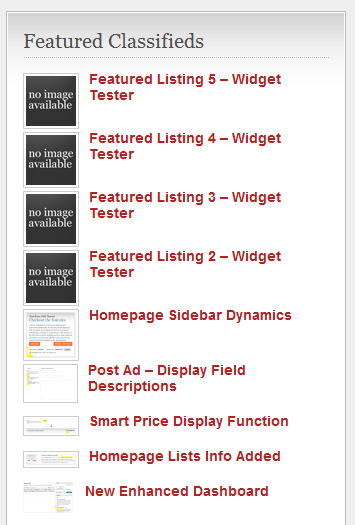
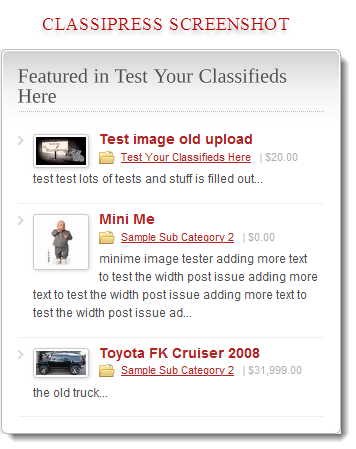
updated plugin for tag out, fixed plugin for users who upgraded to the newest version of ClassiPress, currently version 3.0.5.3
git-svn-id: https://plugins.svn.wordpress.org/sm-sticky-featured-widget/trunk@328926 b8457f37-d9ea-0310-8a92-e5e31aec5664

diff --git a/sticky-featured-widget.php b/sticky-featured-widget.php
@@ -2,9 +2,9 @@
 /*
 Plugin Name: SM Sticky Featured Widget
 Plugin URI: http://www.smwphosting.com/extend/plugins/sm-sticky-widget
-Description: A tiny but high in demand widget to post sticky or "featured" posts into any widget area.
+Description: A tiny but high in demand widget to post sticky or "featured" posts into any widget area complient with ClassiPress.
 Author: Seth Carstens
-Version: 1.0.3
+Version: 1.1.0
 Author URI: http://www.smwphosting.com/
 */
 
@@ -21,8 +21,23 @@ class WP_Widget_smSticky extends WP_Widget {
 
 	// This code displays the widget on the screen.
 	function widget($args, $instance) {
+		wp_reset_query();
 		extract($args);
-		echo $before_widget;
+		
+		//detect and set configuration for classipress or standard wordpress theme
+		if(post_type_exists('ad_listing')) { $cp = true; $postType = 'ad_listing'; $catType = 'ad_cat'; }
+		else { $cp = false; $postType = 'post'; $catType = 'category'; }
+		
+		if(get_query_var('taxonomy')) {
+			$term = get_term_by('slug', get_query_var('term'), get_query_var('taxonomy'));
+		}
+		elseif(is_category()) {
+			$term = get_term_by('id', get_cat_ID(single_cat_title("", false)), 'category');
+		}
+		elseif(is_single()) { //single page
+			$terms = wp_get_post_terms(get_the_ID(), $catType); //print_r($terms); exit;
+			$term = $terms[0];
+		}
 
 		/* User-selected settings. */
 		//title
@@ -34,91 +49,82 @@ class WP_Widget_smSticky extends WP_Widget {
 		//thumbnails
 		$showthumbs = isset( $instance['showthumbs'] ) ? $instance['showthumbs'] : false;
 		$catTitles = isset( $instance['catTitles'] ) ? $instance['catTitles'] : false;
-
-
-		//Building The Query
-		//if the blog category is set, get it and set it to a negative number to exclude it
-		if(get_option('cp_blog_cat')) $blogcatexclude = (int)CP_BLOG_CAT_ID * (-1);
-		else $blogcatexclude = '';
 		
-		//getting the category depending on the type of page we are on IS_SINGLE=POST/PAGE
-		if(is_single()) {
-			$categories = get_the_category($post->ID);
-			$get_cat_name = $categories[0]->cat_name; 
-			$get_cat_id = $categories[0]->cat_ID;
-		}
-		//else its a ARCHIVE/INDEX
-		else
-		{
-			$get_cat_name = single_cat_title("", false);
-			$get_cat_id = get_cat_ID($get_cat_name);
-			
-		}
-		
-		//if not on the home page, we must be in a category, display that title instead.
-		if( ($get_cat_id > 0) && $catTitles) {
-			echo $before_title . __('Featured in ') . $get_cat_name . $after_title;	
-			$argsqry = array('cat' => $get_cat_id);
-		}
-		//means this is the home page : use defined title and exclude blog category ID's
-		else {
-			if(isset($instance['title'])) echo $before_title . $instance['title'] . $after_title;
-			else  echo $before_title . __('Sticky Posts', 'cp') . $after_title;
-			
-			//CLASSIPRESS ONLY grab a string of all the blog categories.
-			$blog_cats_string = (string)CP_BLOG_CAT_ID;
-			$blog_cat_args = array(
-				'type'                     => 'post',
-				'child_of'                 => CP_BLOG_CAT_ID,
-				'pad_counts'               => false );
-			$blog_categories = get_categories($blog_cat_args);
-			foreach ($blog_categories as $cat) {
-				$blog_cats_string .= "," . $cat->cat_ID;
-			}
-
-			//grab all the categories and exclude the blog categories
-			$cp_cat_args = array(
-				'type'                     => 'post',
-				'child_of'                 => 0,
-				'orderby'                  => 'name',
-				'order'                    => 'ASC',
-				'hide_empty'               => 1,
-				'hierarchical'             => 1,
-				'exclude'                  => $blog_cats_string,
-				'pad_counts'               => false );
-			
-			$cp_categories = get_categories($cp_cat_args);
-			foreach ($cp_categories as $cat) {
-				$cp_cats_string .= $cat->cat_ID . ",";
-			}
-
-			if(trim($cp_cats_string) != '') { $argsqry = array('cat' => $cp_cats_string); }
-			
-		}
+		//determine the sticky post type (custom post types)
+		if(post_type_exists('ad_listing')) $postType = 'ad_listing';
+		else $postType = 'post';
 		
 		//always use these attributes when loading the query
 		$queryArrayOrString = array(
 			'post__in'  => get_option('sticky_posts'),
+			'post_type' => $postType,
 			'posts_per_page' => $number,
 			'orderby' => 'rand',
 			'post_status' => 'publish');
-		if(isset($argsqry) && (count($argsqry) > 0) ) { $queryArrayOrString = array_merge($argsqry, $queryArrayOrString); }
-		$smStickyPosts = new WP_Query($queryArrayOrString);
 
-		//The Loop
-		while ($smStickyPosts->have_posts()) : $smStickyPosts->the_post();
-			if (has_post_thumbnail() && $showthumbs){
-				echo '<a href="' . get_permalink() . '">';
-				the_post_thumbnail(array(get_option('thumbnail_size_w'),get_option('thumbnail_size_h')), array('class' => 'alignleft'));
-				echo '</a>';
-			}
-			elseif(function_exists('cp_get_image_url_feat') && $showthumbs) cp_get_image_url_feat(get_the_id(), 'thumbnail', 'captify', 1);
-			echo '<h3><a href="' . get_permalink() . '">' . get_the_title() . '</a></h3>';
-			echo '<br style="clear: both;" />';
-		endwhile;
-		//End of The Loop
+		//if there is a term, only display featured ads from that term assuming the option is turned on
+		if($term->slug && $catTitles) {
+			if($cp) $queryArrayOrString['ad_cat'] = $term->slug;
+			else $queryArrayOrString['category_name'] = $term->slug;
+		}
+		$smStickyPosts = new WP_Query($queryArrayOrString);
 		
+		//start printing the widget
+		echo $before_widget;
+		
+		//if not on the home page, we must be in a category, display that title instead.
+		if( !is_home() && $catTitles) echo $before_title . __('Featured in ') . $term->name . $after_title;	
+		//means this is the home page : use defined title and exclude blog category ID's
+		else {
+			if(isset($instance['title'])) echo $before_title . $instance['title'] . $after_title;
+			else  echo $before_title . __('Sticky Posts', 'cp') . $after_title;			
+		}
+		
+		//The Loop (modified)
+		echo '<ul class="featured-sidebar">';
+		$i = 0;
+		if(!$smStickyPosts->have_posts()) echo 'No Featured Posts Found';
+		while ($smStickyPosts->have_posts() && ($i < $smStickyPosts->query_vars['posts_per_page'])) : $smStickyPosts->the_post();
+			if(post_type_exists('ad_listing')) : 
+		?>
+			<li>
+				<div class="post-thumb" style="min-width:50px;">
+					<?php if(function_exists('cp_ad_featured_thumbnail') && $showthumbs) cp_ad_featured_thumbnail();
+				elseif (has_post_thumbnail() && $showthumbs){
+					echo '<a href="' . get_permalink() . '">';
+					the_post_thumbnail(array(get_option('thumbnail_size_w'),get_option('thumbnail_size_h')), array('class' => 'alignleft'));
+					echo '</a>';
+				}	 ?>
+				</div>
+				<h3><a href="<?php the_permalink(); ?>"><?php if (mb_strlen(get_the_title()) >= 40) echo mb_substr(get_the_title(), 0, 40).'...'; else the_title(); ?></a></h3>
+				<p class="side-meta"><span class="folder"><?php if (get_the_category()) the_category(', '); else echo get_the_term_list($post->ID, 'ad_cat', '', ', ', ''); ?></span> | <?php if(get_post_meta(get_the_ID(), 'price', true)) cp_get_price_legacy(get_the_ID()); else cp_get_price(get_the_ID()); ?></p>
+				<p><?php echo mb_substr(strip_tags(get_the_content()), 0, 160).'...';?></p>
+			</li>
+			<?php
+			else :	
+				echo '<li>';
+				if(function_exists('cp_ad_featured_thumbnail') && $showthumbs) cp_ad_featured_thumbnail();
+				elseif (has_post_thumbnail() && $showthumbs){
+					echo '<a href="' . get_permalink() . '">';
+					the_post_thumbnail(array(get_option('thumbnail_size_w'),get_option('thumbnail_size_h')), array('style' => 'float: left; width: 50px; height: 50px; margin-right: 5px;'));
+					echo '</a>';
+				}		
+				echo '<a href="' . get_permalink() . '">' . get_the_title() . '</a>';
+				echo '<p style="margin: 0px;">'.mb_substr(strip_tags(get_the_content()), 0, 160).'...'.'</p>';
+				echo '<br style="clear: both;" />';
+				echo '</li>';
+			endif;
+			$i++;
+		endwhile;
+		echo '</ul>';
+		//End of The Loop
 		echo $after_widget;
+		
+		//debug printing
+		//echo 'query_vars <pre>'; print_r($smStickyPosts->query_vars); echo '</pre>';
+		//echo '$queryArrayOrString <pre>'; print_r($queryArrayOrString); echo '</pre>';
+		//echo '$term <pre>'; print_r($term); echo '</pre>';
+		wp_reset_query();
 	} // End function widget.
 	
 	
